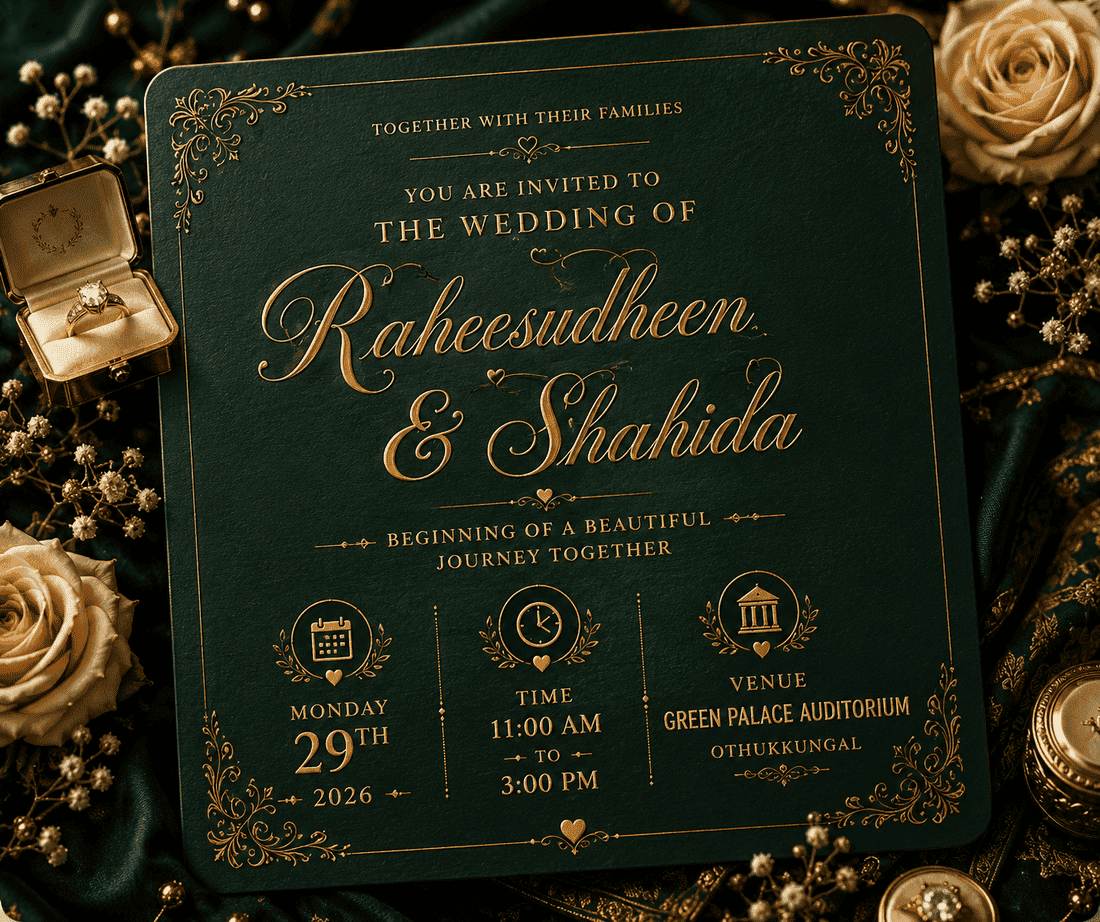
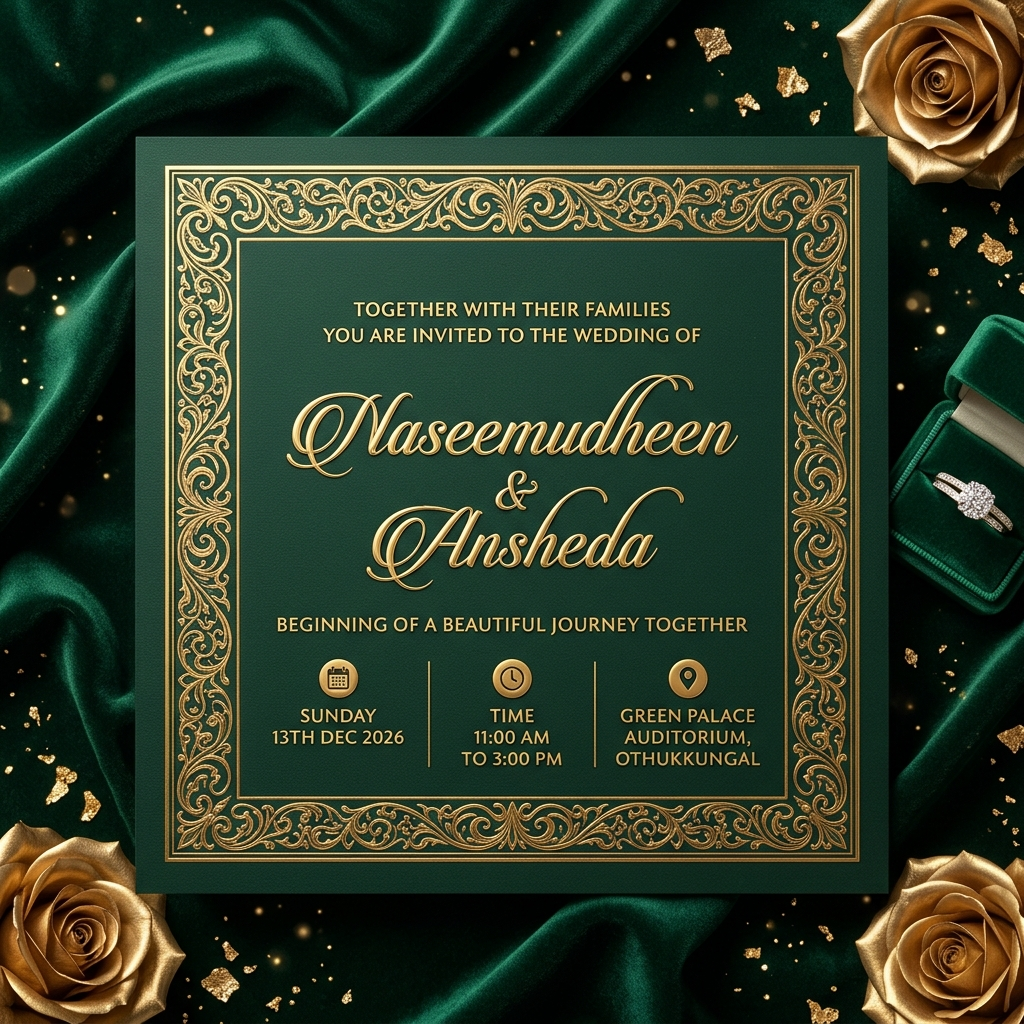
fix(seo): update open graph images to Naseemudheen & Ansheda luxury invitation card

diff --git a/index.html b/index.html
@@ -7,18 +7,21 @@
     
     <!-- Open Graph / WhatsApp / Facebook Meta Tags -->
     <meta property="og:title" content="Naseemudheen & Ansheda - Wedding Invitation" />
-    <meta property="og:description" content="With joyous hearts, we invite you to celebrate the union of Naseemudheen & Ansheda on December 13, 2026 at Green Palace Auditorium, Othukkungal, Pookkottur. Join us for our wedding celebration." />
-    <meta property="og:image" content="https://naseem-weds-ansheda.vercel.app/og-image.png" />
-    <meta property="og:image:width" content="800" />
-    <meta property="og:image:height" content="800" />
+    <meta property="og:description" content="With joyous hearts, we invite you to celebrate the union of Naseemudheen & Ansheda on Sunday, December 13, 2026 at Green Palace Auditorium, Othukkungal, Pookkottur. Join us for our wedding celebration." />
+    <meta property="og:image" content="https://naseem-weds-ansheda.vercel.app/og-image.png?v=2" />
+    <meta property="og:image:secure_url" content="https://naseem-weds-ansheda.vercel.app/og-image.png?v=2" />
+    <meta property="og:image:type" content="image/png" />
+    <meta property="og:image:width" content="1024" />
+    <meta property="og:image:height" content="1024" />
+    <meta property="og:image:alt" content="Naseemudheen & Ansheda - Wedding Invitation" />
     <meta property="og:url" content="https://naseem-weds-ansheda.vercel.app/" />
     <meta property="og:type" content="website" />
     
     <!-- Twitter Meta Tags -->
     <meta name="twitter:card" content="summary_large_image" />
     <meta name="twitter:title" content="Naseemudheen & Ansheda - Wedding Invitation" />
-    <meta name="twitter:description" content="With joyous hearts, we invite you to celebrate the union of Naseemudheen & Ansheda on December 13, 2026 at Green Palace Auditorium, Othukkungal, Pookkottur. Join us for our wedding celebration." />
-    <meta name="twitter:image" content="https://naseem-weds-ansheda.vercel.app/og-image.png" />
+    <meta name="twitter:description" content="With joyous hearts, we invite you to celebrate the union of Naseemudheen & Ansheda on Sunday, December 13, 2026 at Green Palace Auditorium, Othukkungal, Pookkottur. Join us for our wedding celebration." />
+    <meta name="twitter:image" content="https://naseem-weds-ansheda.vercel.app/og-image.png?v=2" />
     
     <!-- Web App Manifest / Theme -->
     <meta name="apple-mobile-web-app-capable" content="yes" />
